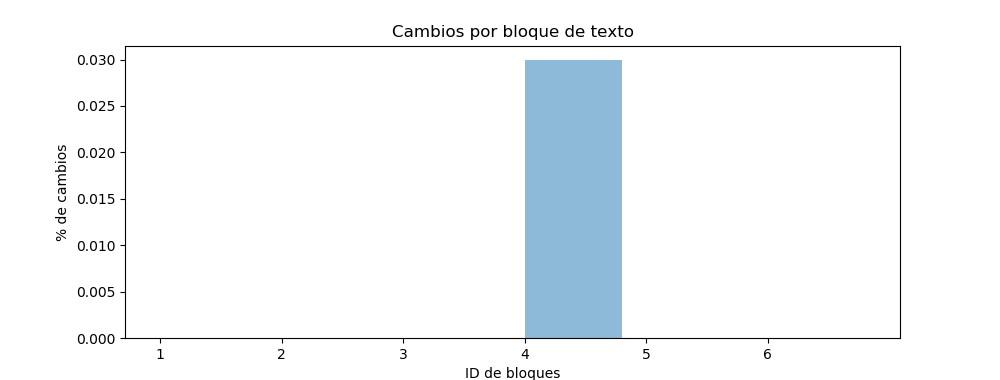
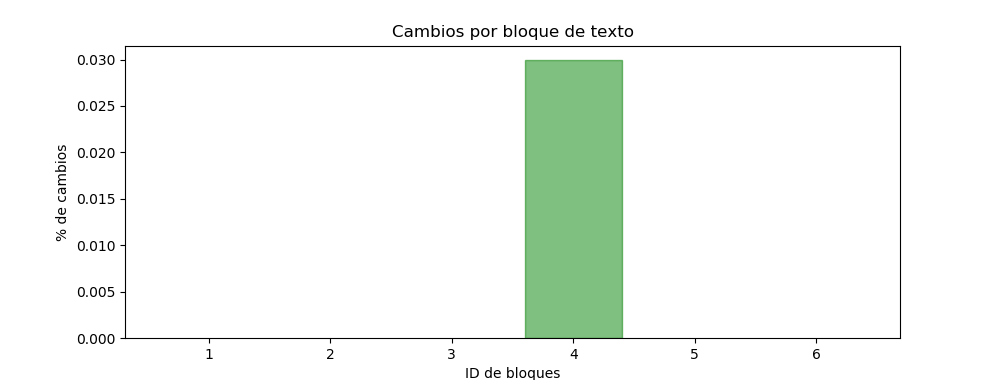
v0.91 Added colors for the graph. Missing legend and qualitative change

Changed region(s): [[0.527, 0.1447, 0.651, 0.8974], [0.806, 0.9263, 0.837, 0.9553], [0.744, 0.9263, 0.775, 0.9553]]

diff --git a/Flaskapp/changeDetector.py b/Flaskapp/changeDetector.py
@@ -40,7 +40,7 @@ def change_detector(p_url, url, caso):
     browser.get(p_url)
     p_html = browser.page_source
     # Se guarda un screenshot de la página en el lugar correspondiente
-    screenshot = util.fullpage_screenshot(browser, 'C:/Users/Luis/Desktop/Flaskapp/static/old_screenshot.png')
+    screenshot = util.fullpage_screenshot(browser, 'static/old_screenshot.png')
     browser.quit()
 
     # url = "https://www.w3schools.com/"
@@ -184,12 +184,22 @@ def change_detector(p_url, url, caso):
             performance =  difference
             plt.tick_params(axis='x', which='major', labelsize=5)
             plt.figure(figsize=(10,3.8))
-            plt.bar(y_pos, performance, align='edge', alpha=0.5)
+            barlist = plt.bar(y_pos,performance,align='center',alpha=0.5)
+
+            for i in range(0, len(barlist)):
+                height = barlist[i].get_height()
+                if height >= 50:
+                    barlist[i].set_color('r')
+                elif height >= 20 and height < 50:
+                    barlist[i].set_color('y')
+                elif height > 0 and height < 20:
+                    barlist[i].set_color('g')
+
             plt.xticks(y_pos, objects)
             plt.ylabel('% de cambios')
             plt.xlabel('ID de bloques')
             plt.title('Cambios por bloque de texto')
-            plt.savefig('C:/Users/Luis/Desktop/Flaskapp/static/block_text_change_percentage.png')
+            plt.savefig('static/block_text_change_percentage.png')
 
             for element in indices_cambios:
                 for element2 in salidafinal:
@@ -227,7 +237,7 @@ def change_detector(p_url, url, caso):
             # exec asyn
 
             # screenshot = browser.save_screenshot('my_screenshot.png')
-            screenshot = util.fullpage_screenshot(browser, 'C:/Users/Luis/Desktop/Flaskapp/static/new_screenshot.png')
+            screenshot = util.fullpage_screenshot(browser, 'static/new_screenshot.png')
             browser.quit()
             # Fin Screenshot
 
@@ -277,13 +287,19 @@ def change_detector(p_url, url, caso):
                 for item in sublist:
                     flatten80.append(item)
 
-            # Asignacion del peso
+            # Asignacion del peso cuantitativo
             porcentajes_cambios_ordenados.append(flatten20)
             porcentajes_cambios_ordenados.append(flatten80)
-
             cambio_peso_80 = statistics.mean(porcentajes_cambios_ordenados[0]) * 0.8
             cambio_peso_20 = statistics.mean(porcentajes_cambios_ordenados[1]) * 0.2
             cambio_total = cambio_peso_80 + cambio_peso_20
+
+            # Hacer cambio cualitativo también, usando la matriz hablada con Sanoja
+            # basada en puerto de visualización de ventana.
+            # Leyenda:
+            # Rojo: significativo
+            # Amarillo: medio
+            # Verde: cambio no significativo
 
             if cambio_total >= 50:
                 resultado = '¡Cambio significativo! Se debe almacenar la nueva versión\n'
@@ -291,16 +307,6 @@ def change_detector(p_url, url, caso):
                 resultado = '¡Cambio siginificativo! Se debe almacenar la nueva versión\n'
             else:
                 resultado = 'Cambio no significativo. La nueva versión no será almacenada\n'
-
-
-            # for i in dicttexts:
-            #     print(i['id'], end=" ")
-            #
-            # with open(r'Salida.txt', 'a') as salida:                                      # Funciona, solo texto
-            #     arguments = [url, savecsv]
-            #     salida.writelines(", ".join(map(str, arguments)) + '\n')
-            #
-            # print("\n")
 
             # Aqui se hacen las manipulaciones al codigo para agregar el marco rojo que detalla el div cambiado
             # Si hubo cambios resaltar usando el id que yo le otorgué para la búsqueda
@@ -311,25 +317,37 @@ def change_detector(p_url, url, caso):
 
             salida = salida + "<!DOCTYPE html>" + '\n' + "<html>" + '\n'
             head = str(head).replace('<head>', reemplazo)
-            salida = salida + head + '\n' + '<body>' + "\n"
+            salida = salida + head + '\n' + '<body>' + '\n'
 
             obj = list(range(len(difference)))
             objects = [x + 1 for x in obj]
             y_pos = np.arange(len(objects))
             performance =  difference
             plt.tick_params(axis='x', which='major', labelsize=5)
-            plt.figure(figsize=(10,3))
-            plt.bar(y_pos, performance, align='edge', alpha=0.5)
+            plt.figure(figsize=(10,3.8))
+            barlist = plt.bar(y_pos,performance,align='center',alpha=0.5)
+
+            for i in range(0, len(barlist)):
+                height = barlist[i].get_height()
+                if height >= 50:
+                    barlist[i].set_color('r')
+                elif height >= 20 and height < 50:
+                    barlist[i].set_color('y')
+                elif height > 0 and height < 20:
+                    barlist[i].set_color('g')
+
             plt.xticks(y_pos, objects)
             plt.ylabel('% de cambios')
+            plt.xlabel('ID de bloques')
             plt.title('Cambios por bloque de texto')
-            plt.savefig('C:/Users/Luis/Desktop/Flaskapp/static/block_text_change_percentage.png')
+            plt.savefig('static/block_text_change_percentage.png')
 
             for element in indices_cambios:
                 for element2 in salidafinal:
                     if element2['id'] == element:
                         if 'style' in element2['value']:
                             element2['value'] = element2['value'].replace('style="', 'style="border: 3px solid red; ', 1)
+                                                                # .replace('id-="')
                         else:
                             reemplazo_border = '< ' + ' style="border: 3px solid red;"'
                             element2['value'] = element2['value'].replace('<', reemplazo_border, 1)
@@ -340,6 +358,7 @@ def change_detector(p_url, url, caso):
 
             salida = salida + "</body>" + '\n'
             salida = salida + "</html>"
+
             url2 = url.replace('.html', '_updated.html')
             g = open(url2, "w", encoding="utf-8")
             g.write(salida)
@@ -355,12 +374,18 @@ def change_detector(p_url, url, caso):
             browser = webdriver.Chrome(options=alloptions)
             url_updated = 'file://'+url2
             browser.get(url_updated)
+
+            # exec asyn
+
             # screenshot = browser.save_screenshot('my_screenshot.png')
-            screenshot = util.fullpage_screenshot(browser, 'C:/Users/Luis/Desktop/Flaskapp/static/new_screenshot.png')
+            screenshot = util.fullpage_screenshot(browser, 'static/new_screenshot.png')
             browser.quit()
             # Fin Screenshot
 
             return resultado
+
+        # else:
+            # Otro caso
 
     else:
         for iterator in range(0, len(p_texts) - len(texts)):
@@ -403,13 +428,19 @@ def change_detector(p_url, url, caso):
                 for item in sublist:
                     flatten80.append(item)
 
-            # Asignacion del peso
+            # Asignacion del peso cuantitativo
             porcentajes_cambios_ordenados.append(flatten20)
             porcentajes_cambios_ordenados.append(flatten80)
-
             cambio_peso_80 = statistics.mean(porcentajes_cambios_ordenados[0]) * 0.8
             cambio_peso_20 = statistics.mean(porcentajes_cambios_ordenados[1]) * 0.2
             cambio_total = cambio_peso_80 + cambio_peso_20
+
+            # Hacer cambio cualitativo también, usando la matriz hablada con Sanoja
+            # basada en puerto de visualización de ventana.
+            # Leyenda:
+            # Rojo: significativo
+            # Amarillo: medio
+            # Verde: cambio no significativo
 
             if cambio_total >= 50:
                 resultado = '¡Cambio significativo! Se debe almacenar la nueva versión\n'
@@ -417,16 +448,6 @@ def change_detector(p_url, url, caso):
                 resultado = '¡Cambio siginificativo! Se debe almacenar la nueva versión\n'
             else:
                 resultado = 'Cambio no significativo. La nueva versión no será almacenada\n'
-
-
-            # for i in dicttexts:
-            #     print(i['id'], end=" ")
-            #
-            # with open(r'Salida.txt', 'a') as salida:                                      # Funciona, solo texto
-            #     arguments = [url, savecsv]
-            #     salida.writelines(", ".join(map(str, arguments)) + '\n')
-            #
-            # print("\n")
 
             # Aqui se hacen las manipulaciones al codigo para agregar el marco rojo que detalla el div cambiado
             # Si hubo cambios resaltar usando el id que yo le otorgué para la búsqueda
@@ -437,25 +458,37 @@ def change_detector(p_url, url, caso):
 
             salida = salida + "<!DOCTYPE html>" + '\n' + "<html>" + '\n'
             head = str(head).replace('<head>', reemplazo)
-            salida = salida + head + '\n' + '<body>' + "\n"
+            salida = salida + head + '\n' + '<body>' + '\n'
 
             obj = list(range(len(difference)))
             objects = [x + 1 for x in obj]
             y_pos = np.arange(len(objects))
             performance =  difference
             plt.tick_params(axis='x', which='major', labelsize=5)
-            plt.figure(figsize=(10,3))
-            plt.bar(y_pos, performance, align='edge', alpha=0.5)
+            plt.figure(figsize=(10,3.8))
+            barlist = plt.bar(y_pos,performance,align='center',alpha=0.5)
+
+            for i in range(0, len(barlist)):
+                height = barlist[i].get_height()
+                if height >= 50:
+                    barlist[i].set_color('r')
+                elif height >= 20 and height < 50:
+                    barlist[i].set_color('y')
+                elif height > 0 and height < 20:
+                    barlist[i].set_color('g')
+
             plt.xticks(y_pos, objects)
             plt.ylabel('% de cambios')
+            plt.xlabel('ID de bloques')
             plt.title('Cambios por bloque de texto')
-            plt.savefig('C:/Users/Luis/Desktop/Flaskapp/static/block_text_change_percentage.png')
+            plt.savefig('static/block_text_change_percentage.png')
 
             for element in indices_cambios:
                 for element2 in salidafinal:
                     if element2['id'] == element:
                         if 'style' in element2['value']:
                             element2['value'] = element2['value'].replace('style="', 'style="border: 3px solid red; ', 1)
+                                                                # .replace('id-="')
                         else:
                             reemplazo_border = '< ' + ' style="border: 3px solid red;"'
                             element2['value'] = element2['value'].replace('<', reemplazo_border, 1)
@@ -466,6 +499,7 @@ def change_detector(p_url, url, caso):
 
             salida = salida + "</body>" + '\n'
             salida = salida + "</html>"
+
             url2 = url.replace('.html', '_updated.html')
             g = open(url2, "w", encoding="utf-8")
             g.write(salida)
@@ -481,10 +515,16 @@ def change_detector(p_url, url, caso):
             browser = webdriver.Chrome(options=alloptions)
             url_updated = 'file://'+url2
             browser.get(url_updated)
+
+            # exec asyn
+
             # screenshot = browser.save_screenshot('my_screenshot.png')
-            screenshot = util.fullpage_screenshot(browser, 'C:/Users/Luis/Desktop/Flaskapp/static/new_screenshot.png')
+            screenshot = util.fullpage_screenshot(browser, 'static/new_screenshot.png')
             browser.quit()
             # Fin Screenshot
 
             return resultado
+
+        # else:
+            # Otro caso
     # bom.ciens.ucv.ve/dataset

diff --git a/Flaskapp/app.py b/Flaskapp/app.py
@@ -2,6 +2,7 @@ import changeDetector
 from flask import Flask, render_template, request
 
 app = Flask(__name__)
+app.config['SEND_FILE_MAX_AGE_DEFAULT'] = 0
 
 @app.route("/")
 def main():
@@ -18,6 +19,9 @@ def changes():
 def add_header(response):
     response.headers['X-UA-Compatible'] = 'IE=Edge,chrome=1'
     response.headers['Cache-Control'] = 'public, max-age=0'
+    response.headers['Cache-Control'] = 'no-store, no-cache, must-revalidate, post-check=0, pre-check=0, max-age=0'
+    response.headers['Pragma'] = 'no-cache'
+    response.headers['Expires'] = '-1'
     return response
 
 if __name__ == "__main__":
